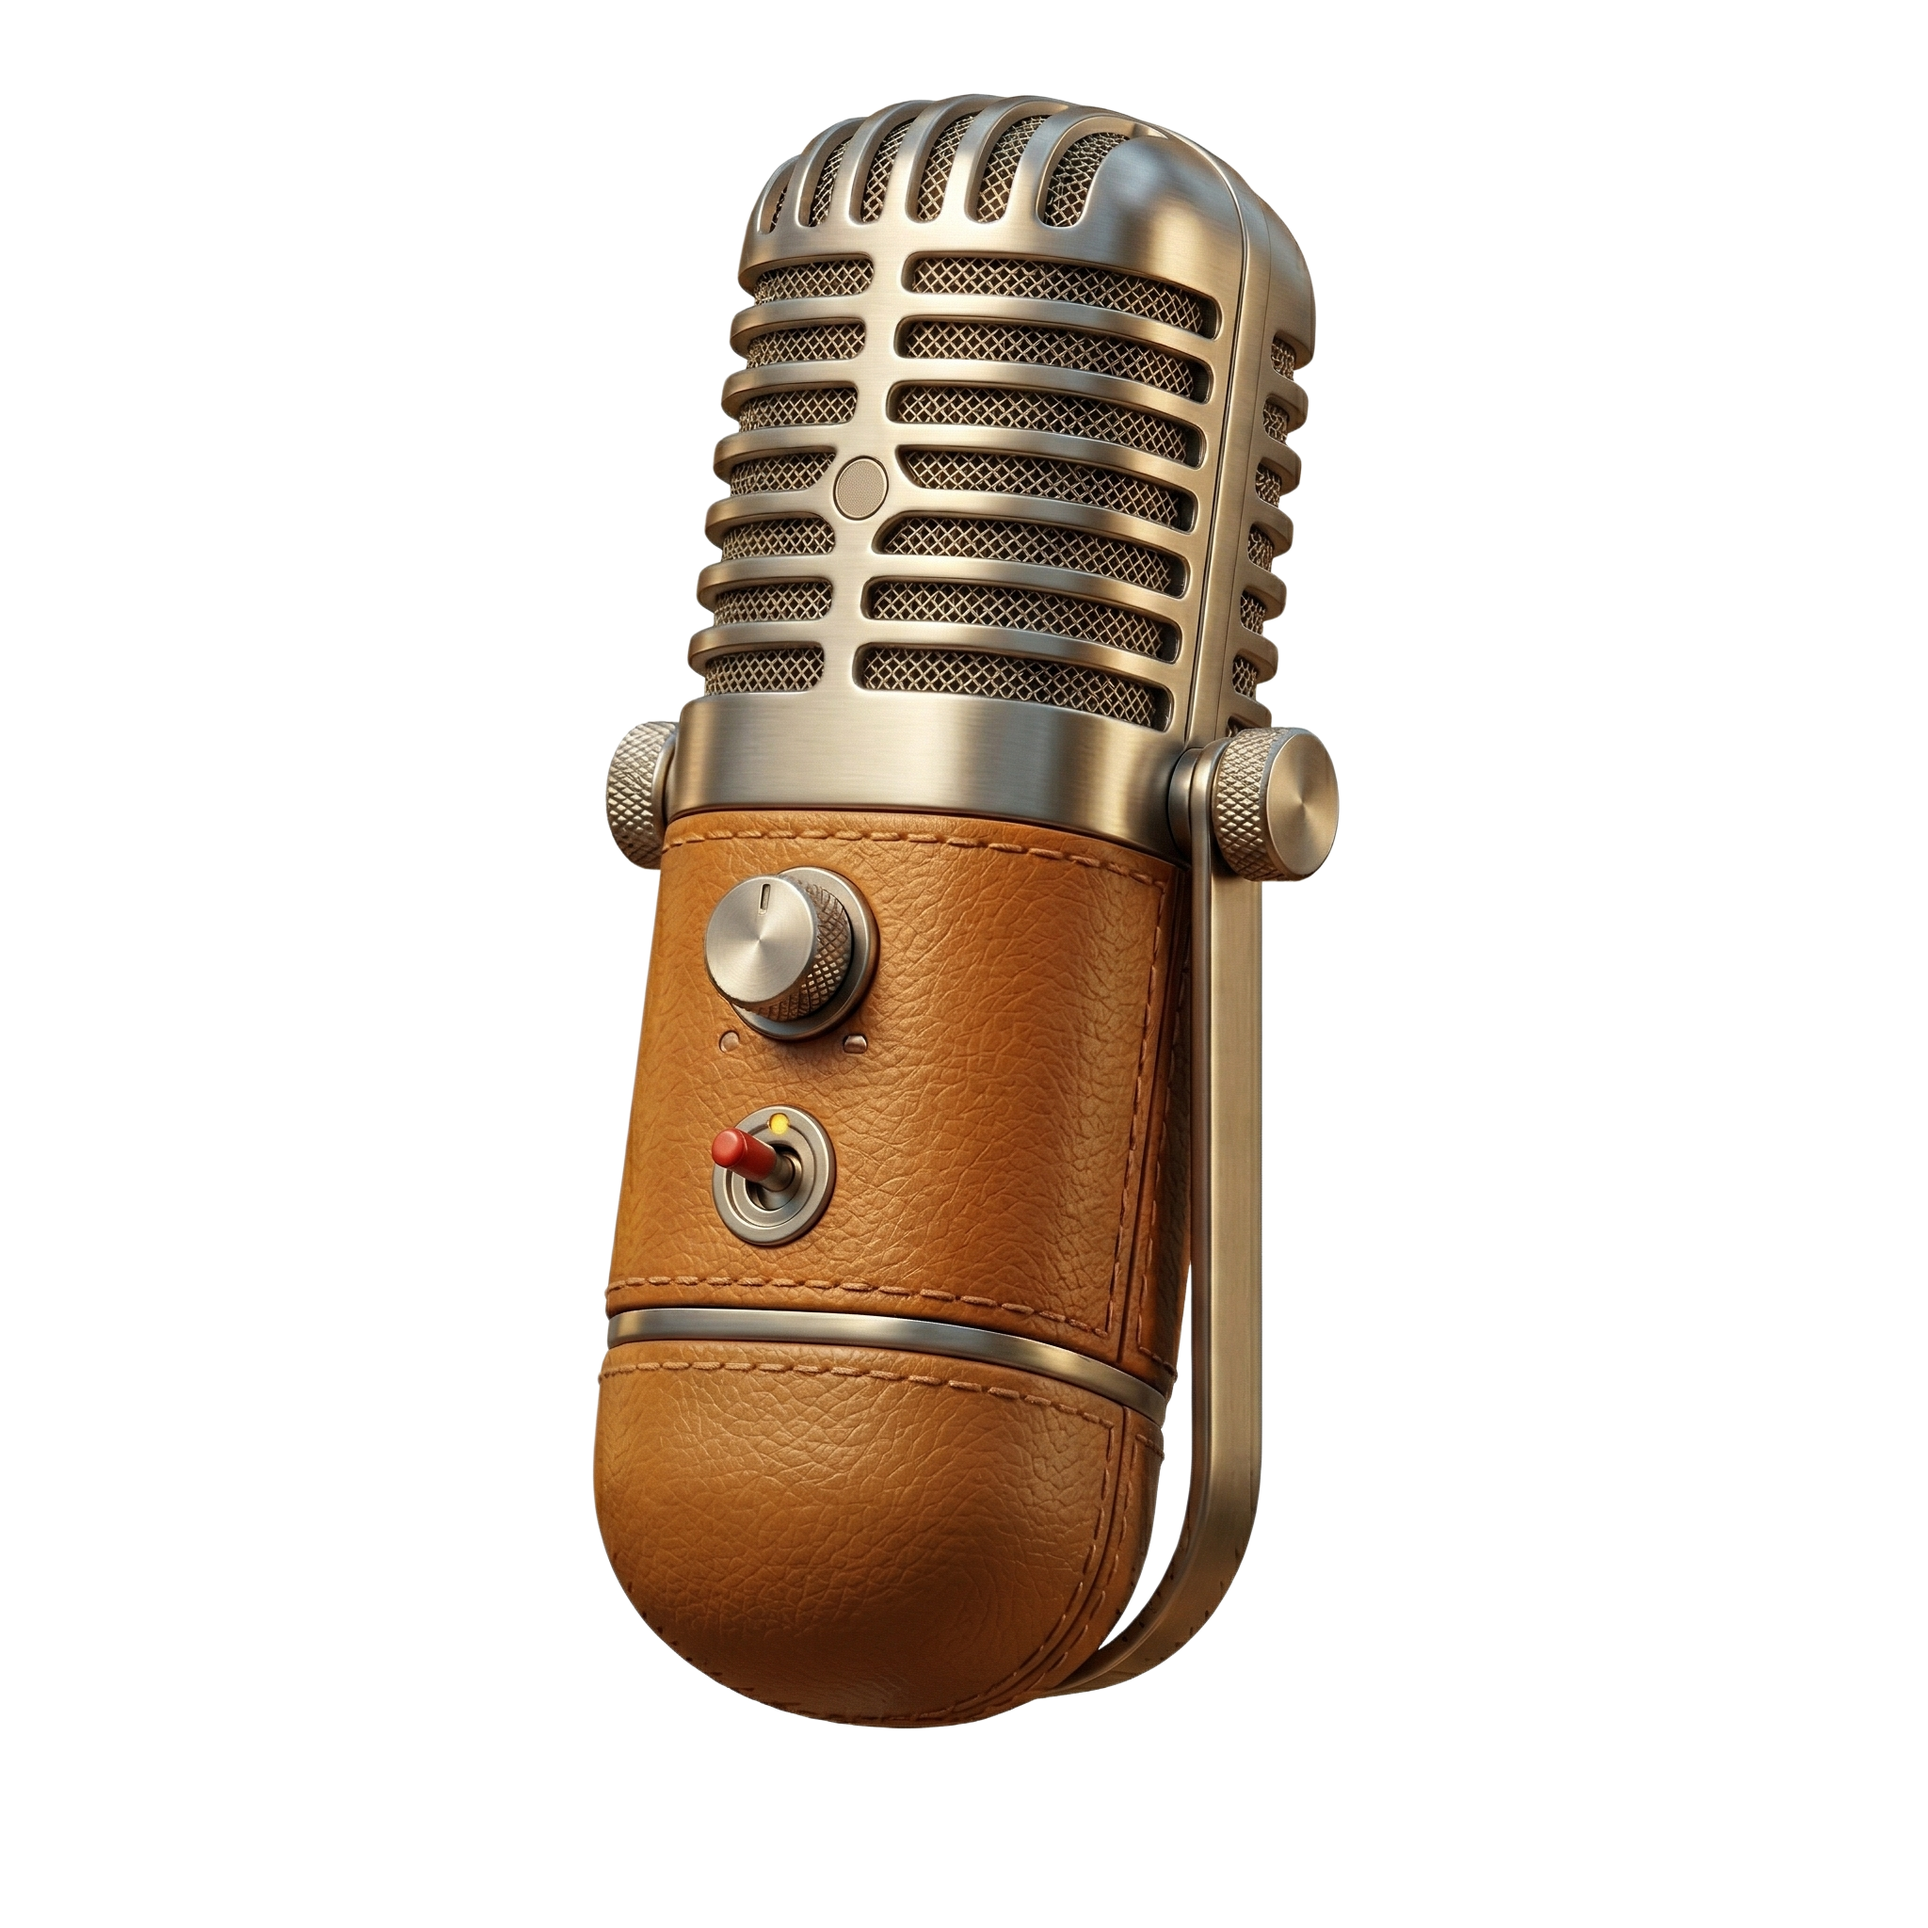
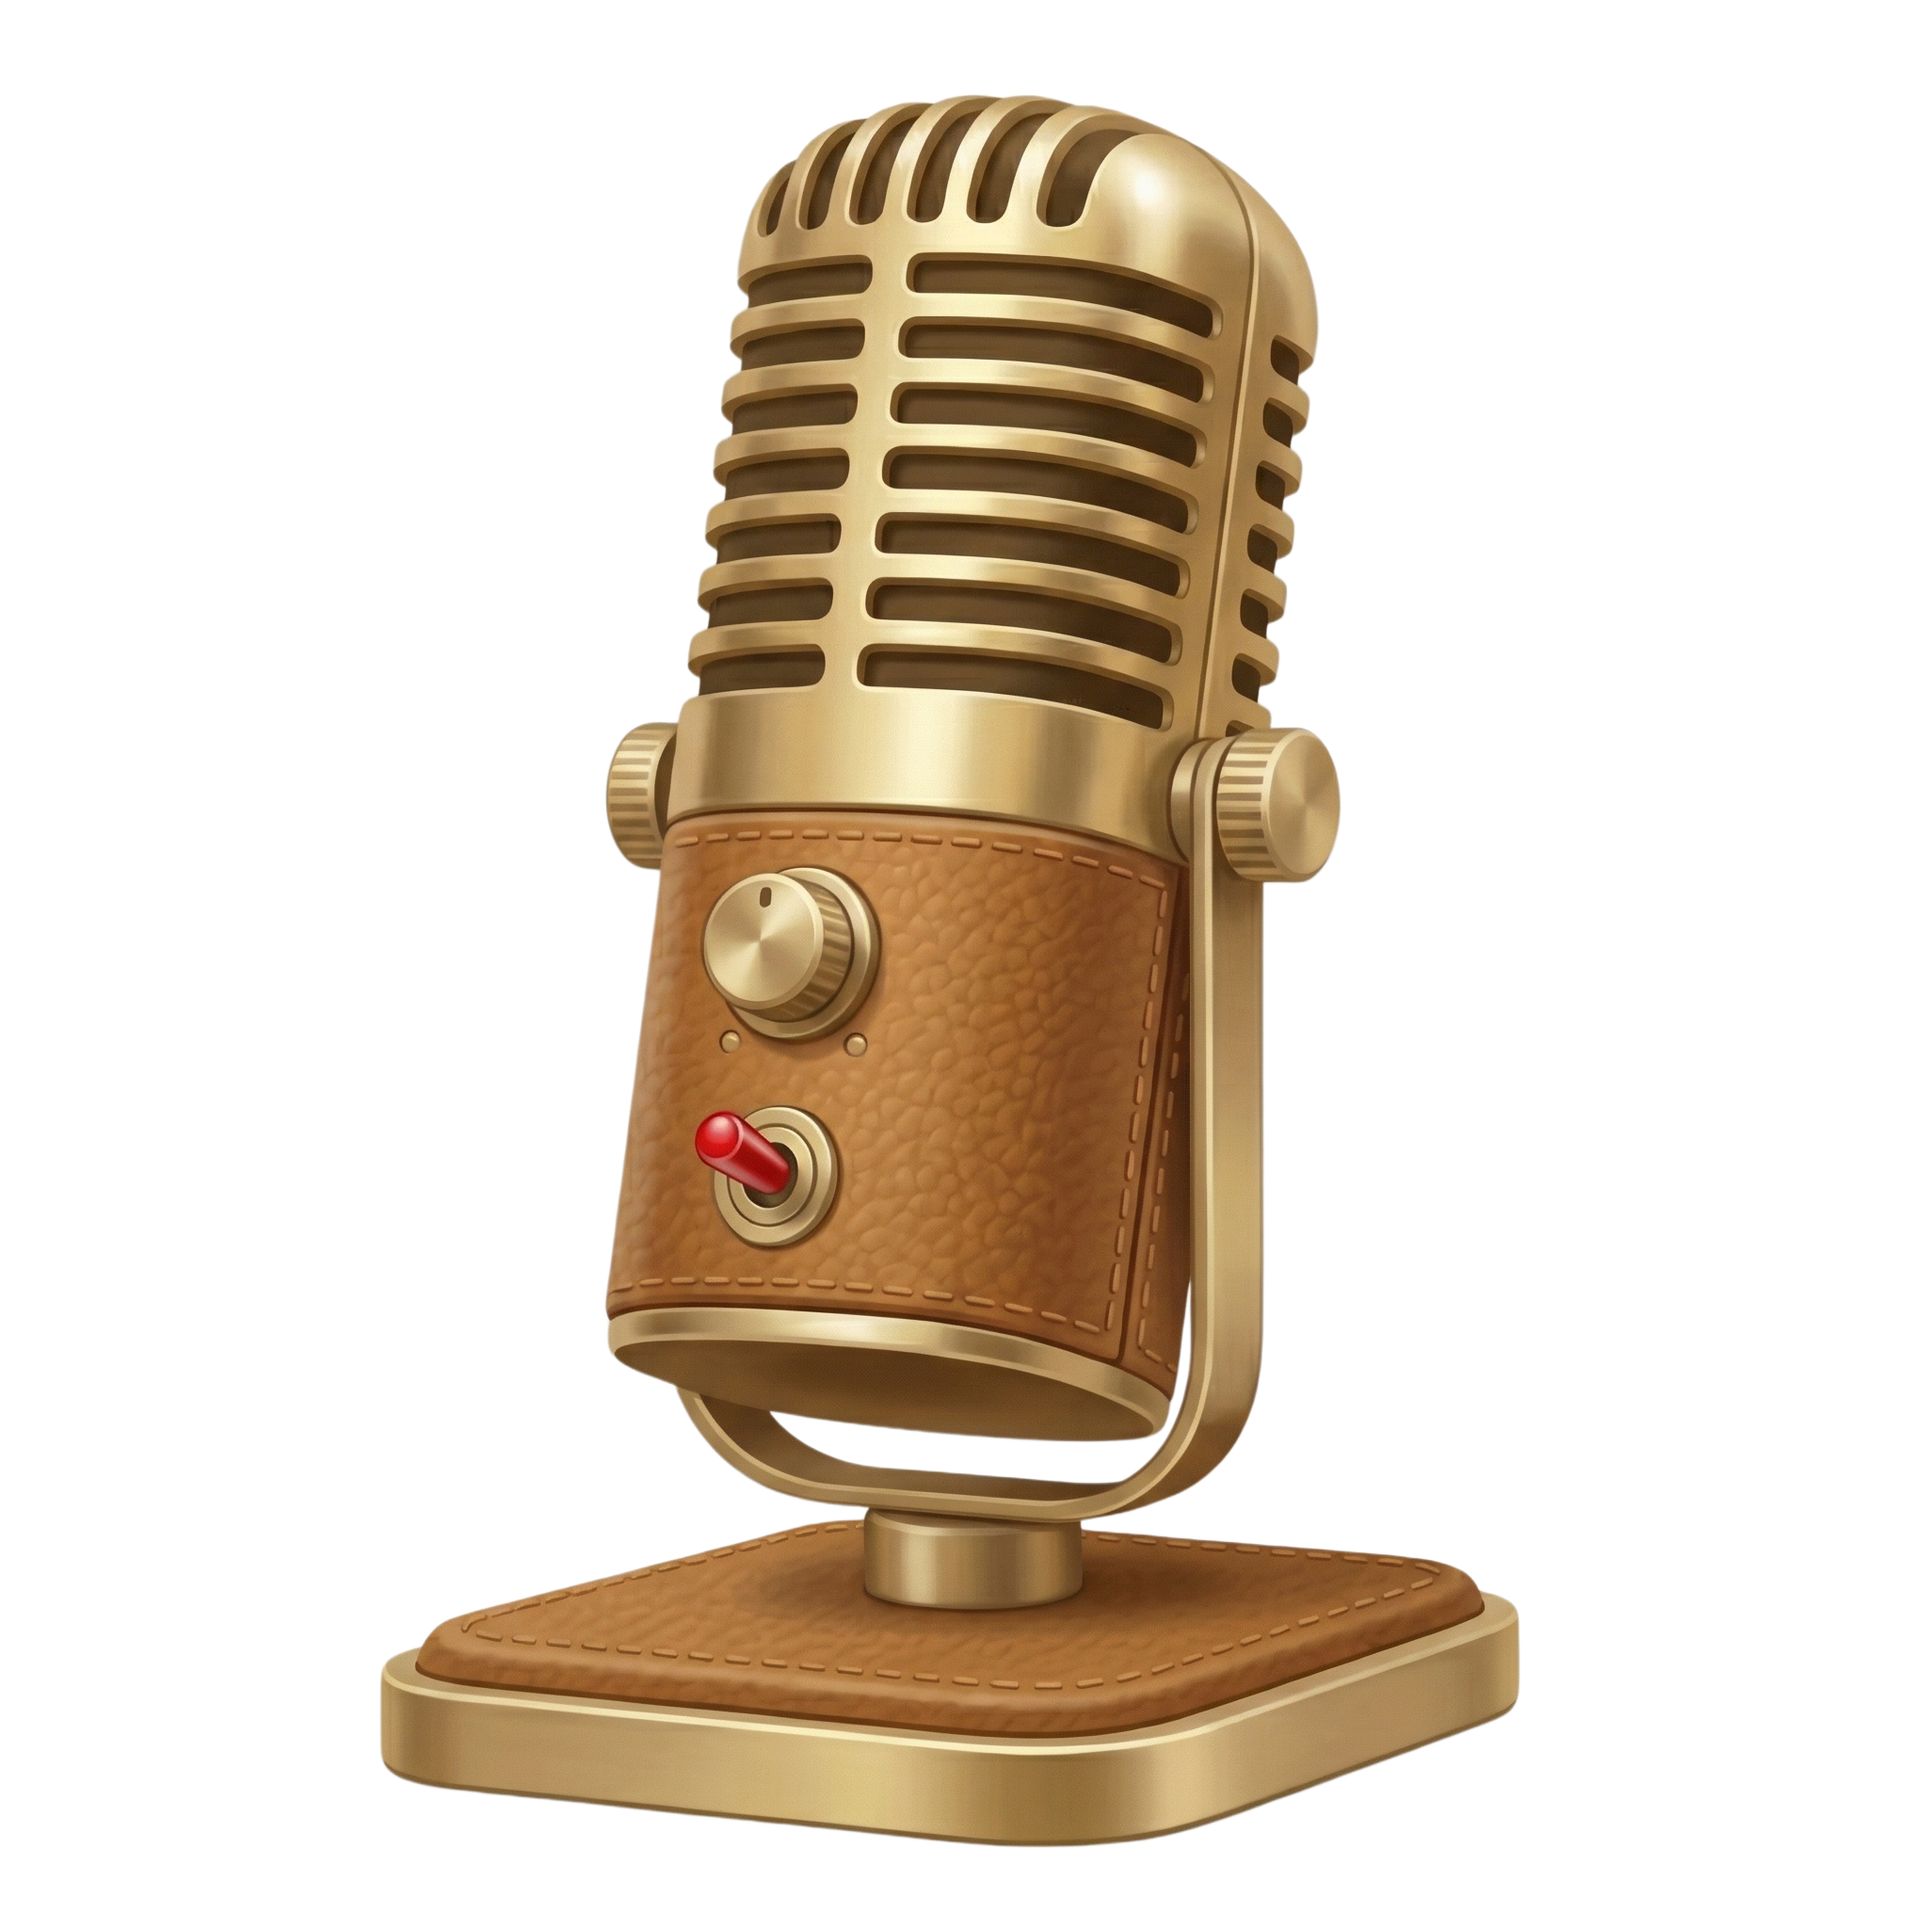
更新AI 聊天

Changed region(s): [[0.1875, 0.0312, 0.8125, 0.9688]]

diff --git a/index.html b/index.html
@@ -633,6 +633,11 @@
       height: 170px;
     }
 
+    /* 麦克风图标偏瘦，放大补偿 */
+    .card-icon img[alt="AI聊天"] {
+      transform: scale(1.3);
+    }
+
     /* 文字标签 - 在卡片外部,木纹风格 */
     .card-label {
       position: absolute;
